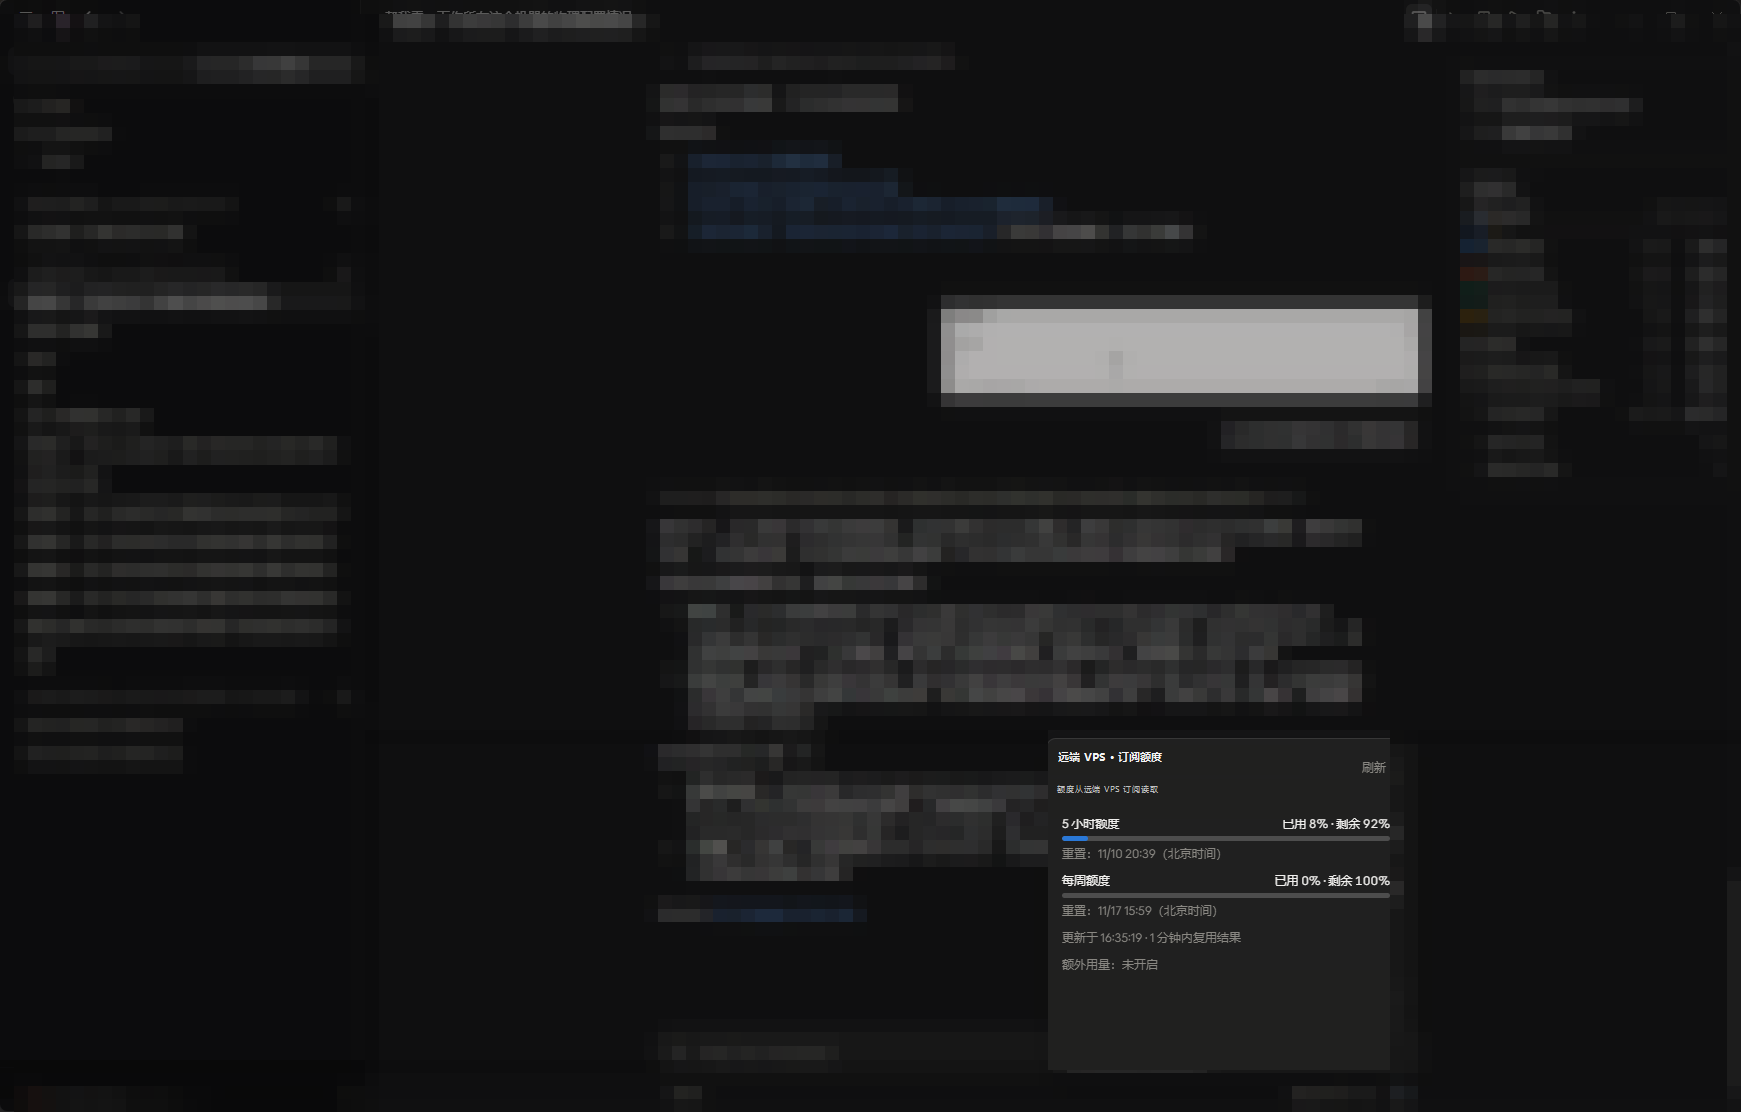
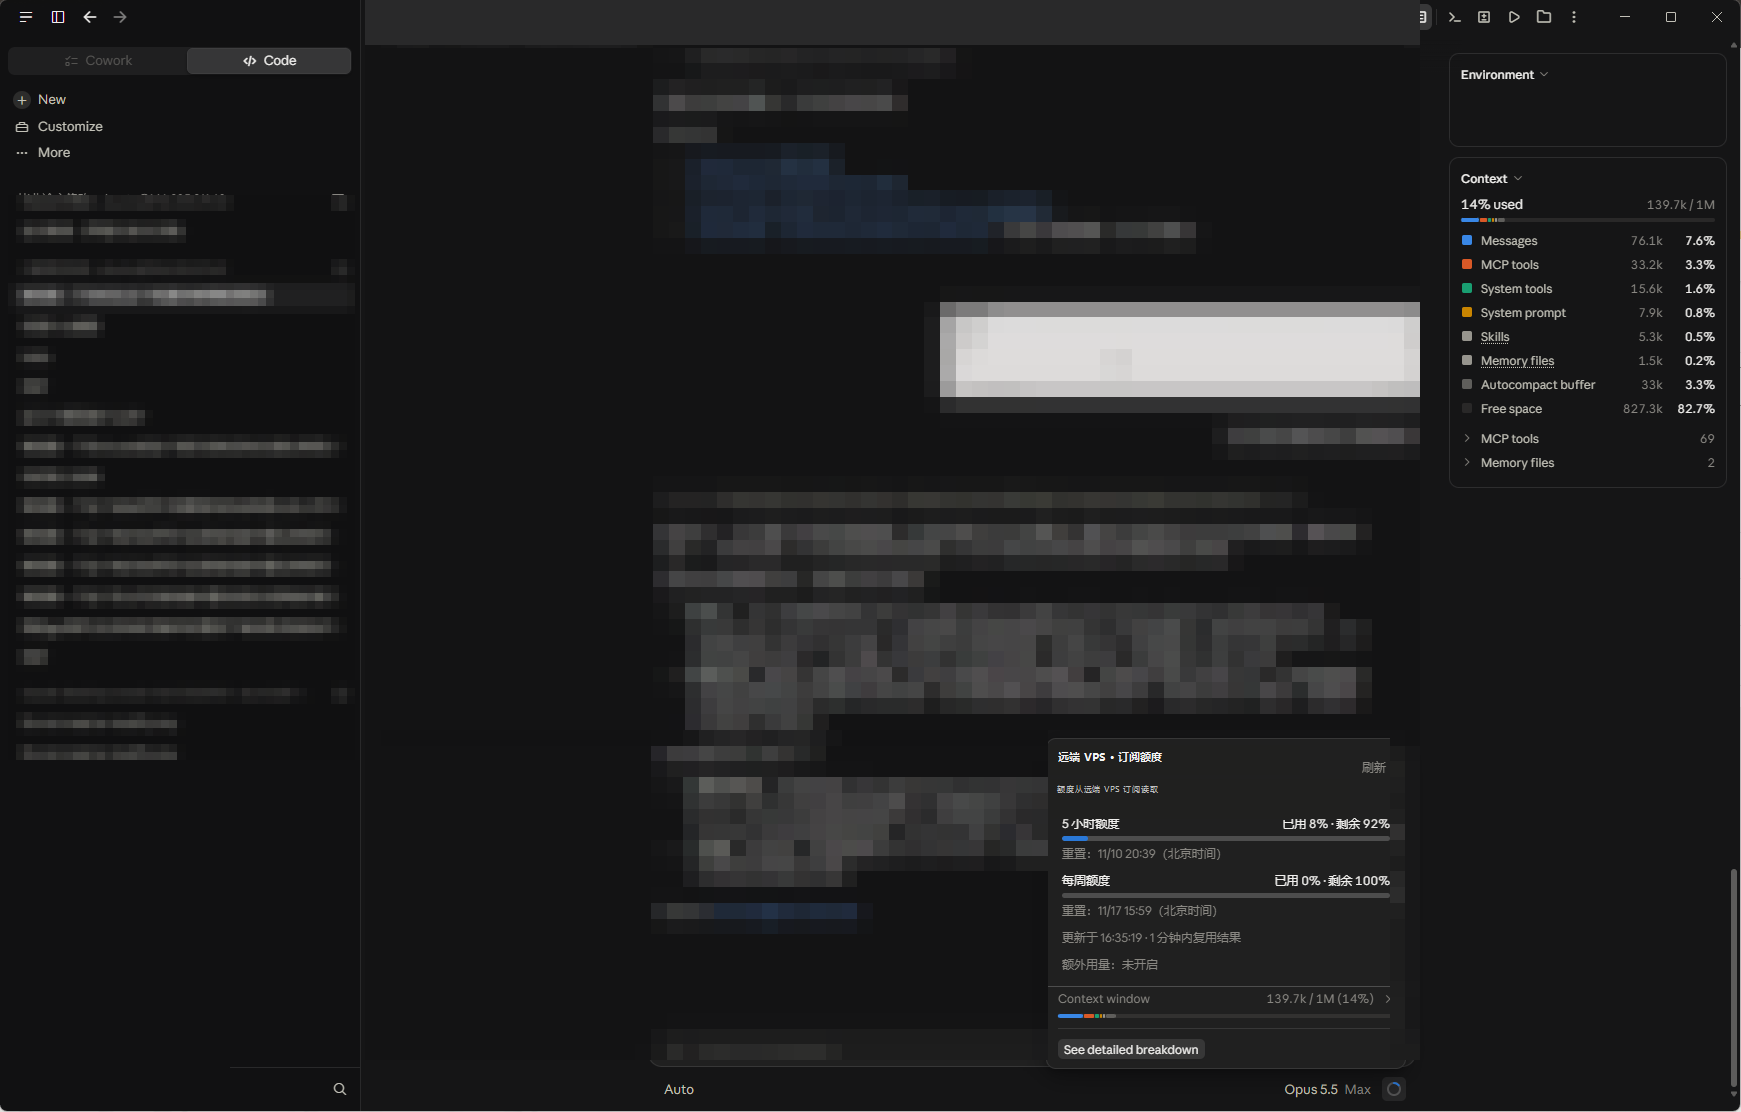
docs: surface screenshots and reduce redaction

diff --git a/README.md b/README.md
@@ -7,8 +7,19 @@
 >
 > **非官方项目。** 本项目不包含 Anthropic 的 `claude.exe`、`app.asar`、`ion-dist.asar` 或解包源码；这些文件必须由使用者从自己合法安装的官方 Claude Desktop 获取。项目与 Anthropic 无关联。
 
+## 效果预览
+
+![远端订阅用量面板](docs/images/usage-panel.png)
+
+*额度从远端 VPS 的 Claude Code 订阅读取；额度百分比和重置时间保留，provider/plan 标题已替换，聊天和服务器信息不在截图中。*
+
+![用量面板在 Desktop 中的位置](docs/images/usage-panel-in-app.png)
+
+*桌面截图只用于说明面板位置；聊天内容、侧边栏会话标题、服务器字段和底部账号名已打码；右侧 Context、底部模型名和额度面板保留可见。*
+
 ## 目录
 
+- [效果预览](#效果预览)
 - [真实痛点：官方 SSH 远程为什么走不通](#真实痛点官方-ssh-远程为什么走不通)
 - [为什么把订阅放在远端 VPS](#为什么把订阅放在远端-vps)
 - [这是什么](#这是什么)
@@ -318,13 +329,7 @@ ls ~/.claude/remote/ccd-cli/
 
 > **额度从远端 VPS 上的 Claude Code 订阅读取；Windows 副本只负责显示，不保存订阅 token。**
 
-![远端订阅用量面板](docs/images/usage-panel.png)
-
-*额度百分比和重置时间来自远端 VPS 的订阅查询；截图中的聊天、会话、服务器、环境和上下文信息已打码，额度数字保留。*
-
-![用量面板在 Desktop 中的位置](docs/images/usage-panel-in-app.png)
-
-*桌面整体截图只用于说明面板位置；除额度面板外，聊天、会话、服务器、环境、账号和上下文区域均已打码。*
+截图见顶部 [效果预览](#效果预览)。
 
 该功能依赖服务器上的 `~/.claude/.credentials.json`（Claude Code 登录状态）和官方用量接口。接口变化时可能失效；失败时显示原因，不会把旧额度冒充成新结果。
 

diff --git a/README.en.md b/README.en.md
@@ -13,8 +13,23 @@
 > You must obtain your own licensed copy of the official Claude Desktop. This
 > project is not affiliated with Anthropic.
 
+## Preview
+
+![Remote subscription usage panel](docs/images/usage-panel.png)
+
+*Quota is read from the Claude Code subscription on the remote VPS. Quota
+percentages and reset times are retained; provider/plan labels are replaced;
+chat and server content are not shown.*
+
+![Usage panel in the Desktop copy](docs/images/usage-panel-in-app.png)
+
+*The desktop screenshot is only for location context; chat content, sidebar
+session titles, server fields, and the bottom account name are redacted. The
+right Context panel, bottom model name, and quota panel remain visible.*
+
 ## Contents
 
+- [Preview](#preview)
 - [The real pain point](#the-real-pain-point)
 - [Why put the subscription on a remote VPS](#why-put-the-subscription-on-a-remote-vps)
 - [What this project is](#what-this-project-is)
@@ -353,16 +368,7 @@ The optional panel shows:
 > **Quota is read from the Claude Code subscription on the remote VPS. The
 > Windows copy only displays it and never stores the subscription token.**
 
-![Remote subscription usage panel](docs/images/usage-panel.png)
-
-*Quota percentages and reset times come from the remote VPS subscription query.
-Chat, session, server, environment, and context areas are redacted; quota
-numbers remain visible.*
-
-![Usage panel in the Desktop copy](docs/images/usage-panel-in-app.png)
-
-*The full-window image is only for location context; everything outside the
-quota panel is redacted.*
+Screenshots: see [Preview](#preview).
 
 The query runs over SSH on the server, reads the server's
 `~/.claude/.credentials.json`, and returns only whitelisted usage fields. No

diff --git a/docs/images/README.md b/docs/images/README.md
@@ -3,11 +3,12 @@
 These screenshots are **redacted** before being committed:
 
 - `usage-panel.png` — close-up of the remote subscription usage panel.
-  Provider/plan labels and the session-context section are removed; quota
-  percentages and reset times are retained.
-- `usage-panel-in-app.png` — the usage panel in the Desktop window. The
-  sidebar, chat, environment, context panel, bottom bar, and all surrounding
-  text are pixelated; only the quota panel is readable.
+  Provider/plan labels are replaced, the session-context section is cropped,
+  and quota percentages/reset times are retained.
+- `usage-panel-in-app.png` — the usage panel in the Desktop window. Chat
+  content, sidebar session titles, server fields, and the bottom account name
+  are redacted. The right Context panel, bottom model name, and quota panel
+  remain visible.
 
 The images contain no server address, SSH user/key, account email, token,
 session ID, paper/project content, or local path. No original unredacted

diff --git a/docs/USAGE-PANEL.md b/docs/USAGE-PANEL.md
@@ -18,14 +18,15 @@ in `scripts/oracle-usage-ui.mjs`.
 
 ![Remote subscription usage panel](images/usage-panel.png)
 
-*Quota percentages and reset times are from the remote VPS query. Chat,
-session, server, environment, and context information are redacted; quota
-numbers remain visible.*
+*Quota percentages and reset times are from the remote VPS query. Provider/plan
+labels are replaced, and chat/server content is not included; quota numbers
+remain visible.*
 
 ![Usage panel in the Desktop copy](images/usage-panel-in-app.png)
 
-*The full-window image is only for location context; everything outside the
-quota panel is redacted.*
+*The desktop screenshot is only for location context. Chat content, sidebar
+session titles, server fields, and the bottom account name are redacted. The
+right Context panel, bottom model name, and quota panel remain visible.*
 
 ## Data path
 
